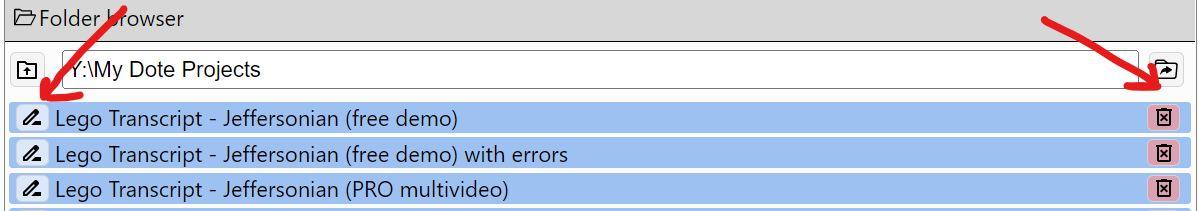
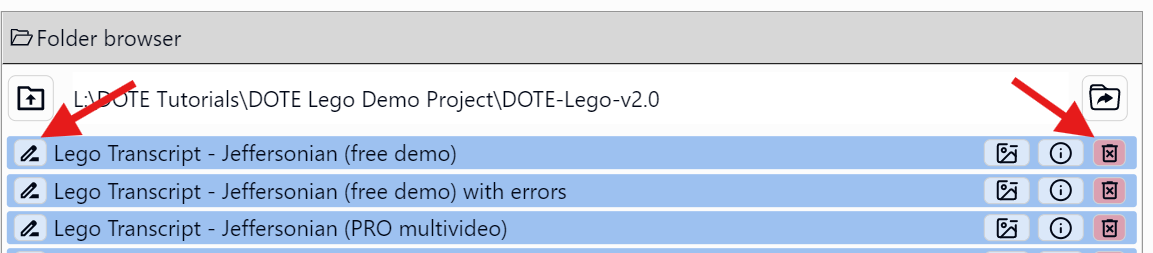
Edit and add new images to Projects

diff --git a/projects.md b/projects.md
@@ -2,15 +2,21 @@
 
 Watch the [basic](https://www.youtube.com/watch?v=7oHE1KsIGTo) and [advanced](https://www.youtube.com/watch?v=GkjMwL6zqmM) video tutorials on YouTube.
 
-A _DOTE_ Project is a folder containing all the Transcripts for a specific audio or video clip (media source).
-You can give this folder a unique and informative name.
-Always keep this Project folder, files and subfolders together, otherwise _DOTE_ will not be able to recover older edited versions nor underlining, sync-codes and video-cues.
-Each transcript folder contains the plain `transcript.txt` file and other hidden files needed to support _DOTE_ for that specific Project.
-Each transcript can be given a unique and informative name.
-Each project is stored in a _DOTE_ Projects master folder.
-You can decide the name of this folder and where it is located on your operating system.
-You can make multiple, independent Projects in this folder.
-One can also have multiple _DOTE_ Projects master folders, for example on different drives or removable media.
+A _DOTE_ Project is stored as a folder on your file system, which contains all the Transcripts for a specific audio or video clip (media source).
+You can give this (Project) folder a unique and informative name.
+Always keep this Project folder, files and subfolders together on your file system, otherwise _DOTE_ will not be able to recover older edited versions nor underlining, sync-codes and video-cues.
+Each Transcript folder on your file system contains the plain `transcript.txt` file and other hidden files needed to support _DOTE_ for that specific Project:
+
+- Each Transcript can be given a unique and informative name.
+- Each Project is usually stored in a _DOTE_ Projects master folder.
+- You can decide the name of this folder and where it is located on your file system.
+- You can make multiple, independent Projects in this folder.
+- One can also have multiple _DOTE_ Projects master folders, for example on different drives or removable media.
+- Generally, Projects are colour-coded orange and Transcripts are blue.
+- _DOTE_ can assign a special icon to the Project and Transcript folders on your file system.
+
+[![Folder icons](images/projects/folders-icons2.png)](images/projects/folders-icons2.png)
+[![Folder icons](images/projects/folders-icons.png)](images/projects/folders-icons.png)
 
 Note that _DOTE_ is _not_ a cloud service.
 It is a desktop application that stores data on your local computer's file system.
@@ -137,7 +143,7 @@ The panel has three vertical panes (see Figure):
     - A list of all known Projects and their Transcripts in all subfolders beneath the current folder open in the middle pane.
     - The Project names are in grey and the Transcript names are highlighted on a blue background.
 
-Note that in some of the panes, recognised _DOTE_ Projects are highlighted in green and recognised Transcripts (in Projects) are highlighted with a blue background.
+Note that in some of the panes, recognised _DOTE_ Projects are highlighted with an orange background and recognised Transcripts (in Projects) are highlighted with a blue background.
 
 [![Highlight status](images/projects/highlight.png)](images/projects/highlight.png)
 
@@ -151,7 +157,7 @@ It is also possible to rename a project or a Transcript in the `Project Manger`:
 
 [![Rename-Delete](images/projects/rename-delete.png)](images/projects/rename-delete.png)
 
-It is also possible to delete a project or a Transcript in the `Project Manager`:
+It is also possible to delete a Project or a Transcript in the `Project Manager`:
 - Click the delete icon next to the Transcript or Project listed in the middle panel (_Folder Browser_).
 - Confirm the deletion.
 - The deleted file(s) will be placed in the Recycle Bin/Trash.
@@ -159,6 +165,20 @@ It is also possible to delete a project or a Transcript in the `Project Manager`
 This is because a Project should always contain at least one Transcript (even if blank).
 - Deleting a Project will also delete all Transcripts in that Project.
 Be careful!
+
+##### Icons and Information
+
+There are two other buttons available for each Project and Transcript listed in the folder browser in the Project Manager:
+
+[![Icons and Information](images/projects/icons.png)](images/projects/icons.png)
+
+- Add/Remove Folder icon from folder or directory on your file system.
+As outlined above, _DOTE_ stores Projects in folders and Transcripts in subfolders on your file system.
+If you wish to display DOTE specific icons on your file system, then toggle this on.
+If toggled off, then the default icons for folders are displayed on your file system.
+- Information.
+This function is not yet implemented.
+Find Project & Transcript Information in the [Project Info](project-info.md).
 
 #### Problems with orphan Transcripts and corrupted Transcripts <a id='orphan-corrupt'></a>
 
